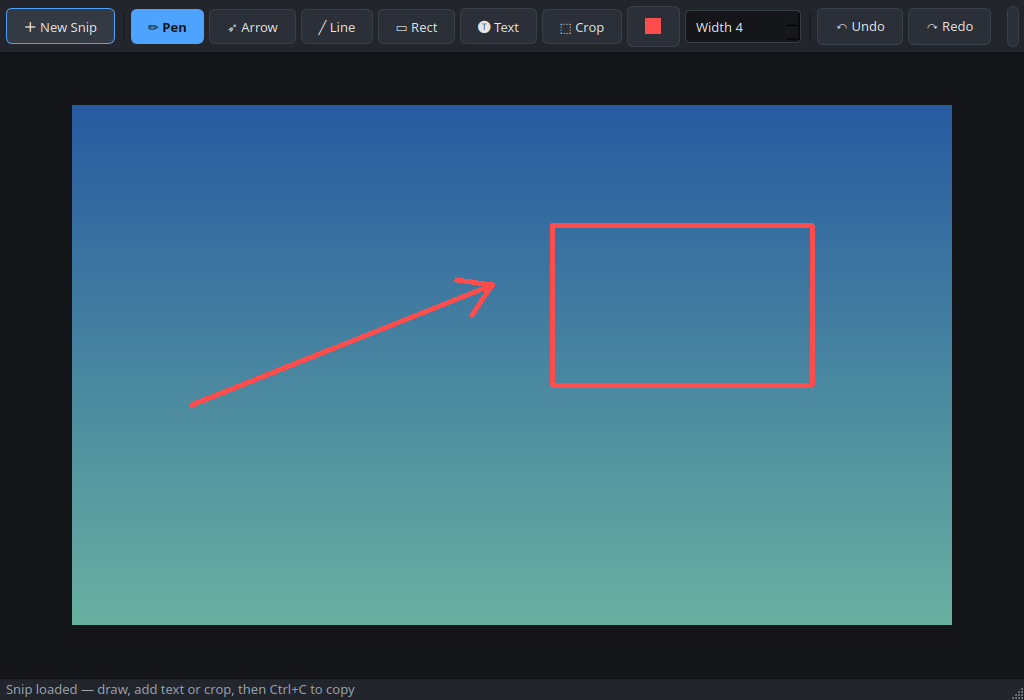
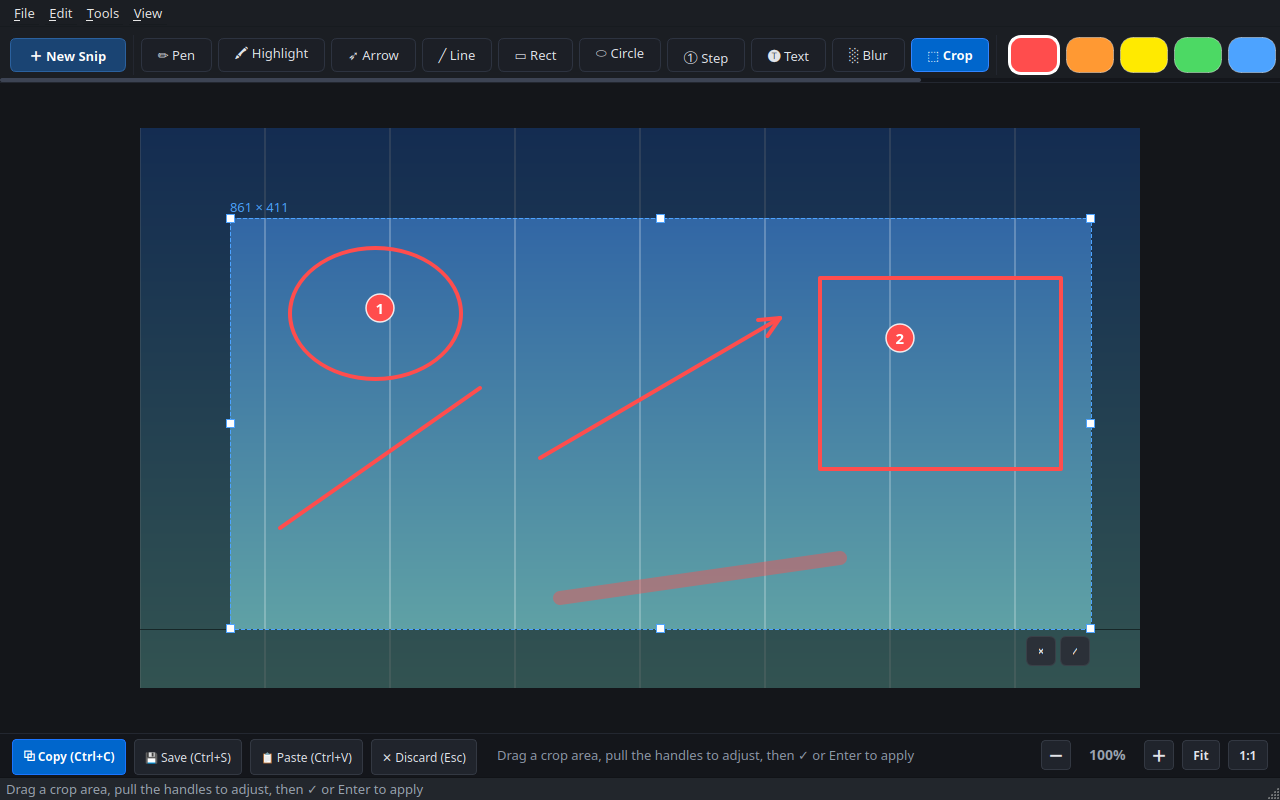
Update store screenshot to 1.1.0 UI

diff --git a/scripts/render_screenshot.py b/scripts/render_screenshot.py
@@ -1,0 +1,95 @@
+"""Render docs/screenshot.png entirely offscreen.
+
+Runs the real EditorWindow with the offscreen platform, drives it with
+synthetic mouse events (same code paths as real input), draws a few
+annotations with different tools, leaves a pending crop selection visible
+(handles + confirm button), then grabs the window once into
+docs/screenshot.png.
+"""
+
+import sys
+
+from PyQt6.QtCore import QEvent, QPointF, Qt, QTimer
+from PyQt6.QtGui import QColor, QImage, QMouseEvent, QPainter, QPen
+from PyQt6.QtWidgets import QApplication
+
+from quicksnipp.editor import EditorWindow
+from quicksnipp.main import QSS, apply_dark_palette
+
+OUT = "docs/screenshot.png"
+
+
+def mouse(canvas, t, x, y, buttons):
+    pos = QPointF(x, y)
+    ev = QMouseEvent(t, pos, canvas.mapToGlobal(pos.toPoint()).toPointF(),
+                     Qt.MouseButton.LeftButton, buttons,
+                     Qt.KeyboardModifier.NoModifier)
+    QApplication.postEvent(canvas, ev)
+
+
+def drag(canvas, x1, y1, x2, y2):
+    mouse(canvas, QEvent.Type.MouseButtonPress, x1, y1, Qt.MouseButton.LeftButton)
+    steps = 10
+    for i in range(1, steps + 1):
+        x = x1 + (x2 - x1) * i // steps
+        y = y1 + (y2 - y1) * i // steps
+        mouse(canvas, QEvent.Type.MouseMove, x, y, Qt.MouseButton.LeftButton)
+    mouse(canvas, QEvent.Type.MouseButtonRelease, x2, y2, Qt.MouseButton.NoButton)
+
+
+def click(canvas, x, y):
+    mouse(canvas, QEvent.Type.MouseButtonPress, x, y, Qt.MouseButton.LeftButton)
+    mouse(canvas, QEvent.Type.MouseButtonRelease, x, y, Qt.MouseButton.NoButton)
+
+
+def sample_image():
+    img = QImage(1000, 560, QImage.Format.Format_ARGB32_Premultiplied)
+    p = QPainter(img)
+    for y in range(560):
+        p.setPen(QColor(40 + y // 9, 90 + y // 7, 165))
+        p.drawLine(0, y, 1000, y)
+    p.setPen(QPen(QColor(255, 255, 255, 60), 2))
+    for x in range(0, 1000, 125):
+        p.drawLine(x, 0, x, 560)
+    p.end()
+    return img
+
+
+def main():
+    app = QApplication(sys.argv)
+    app.setStyle("Fusion")
+    apply_dark_palette(app)
+    app.setStyleSheet(QSS)
+
+    win = EditorWindow()
+    win.resize(1280, 800)
+    win.canvas.set_image(sample_image())
+    win.show()
+    canvas = win.canvas
+
+    def step(ms, fn):
+        QTimer.singleShot(ms, fn)
+
+    step(600, lambda: win._set_tool("pen"))
+    step(900, lambda: drag(canvas, 140, 400, 340, 260))
+    step(2200, lambda: win._set_tool("highlighter"))
+    step(2500, lambda: drag(canvas, 420, 470, 700, 430))
+    step(3800, lambda: win._set_tool("arrow"))
+    step(4100, lambda: drag(canvas, 400, 330, 640, 190))
+    step(5400, lambda: win._set_tool("rect"))
+    step(5700, lambda: drag(canvas, 680, 150, 920, 340))
+    step(7000, lambda: win._set_tool("ellipse"))
+    step(7300, lambda: drag(canvas, 150, 120, 320, 250))
+    step(8600, lambda: win._set_tool("step"))
+    step(8900, lambda: click(canvas, 240, 180))
+    step(10200, lambda: click(canvas, 760, 210))
+    step(11500, lambda: win._set_tool("crop"))
+    step(11800, lambda: drag(canvas, 90, 90, 950, 500))  # leave pending crop
+    step(13000, lambda: win.grab().toImage().save(OUT, "PNG"))
+    step(13400, app.quit)
+
+    return app.exec()
+
+
+if __name__ == "__main__":
+    raise SystemExit(main())
